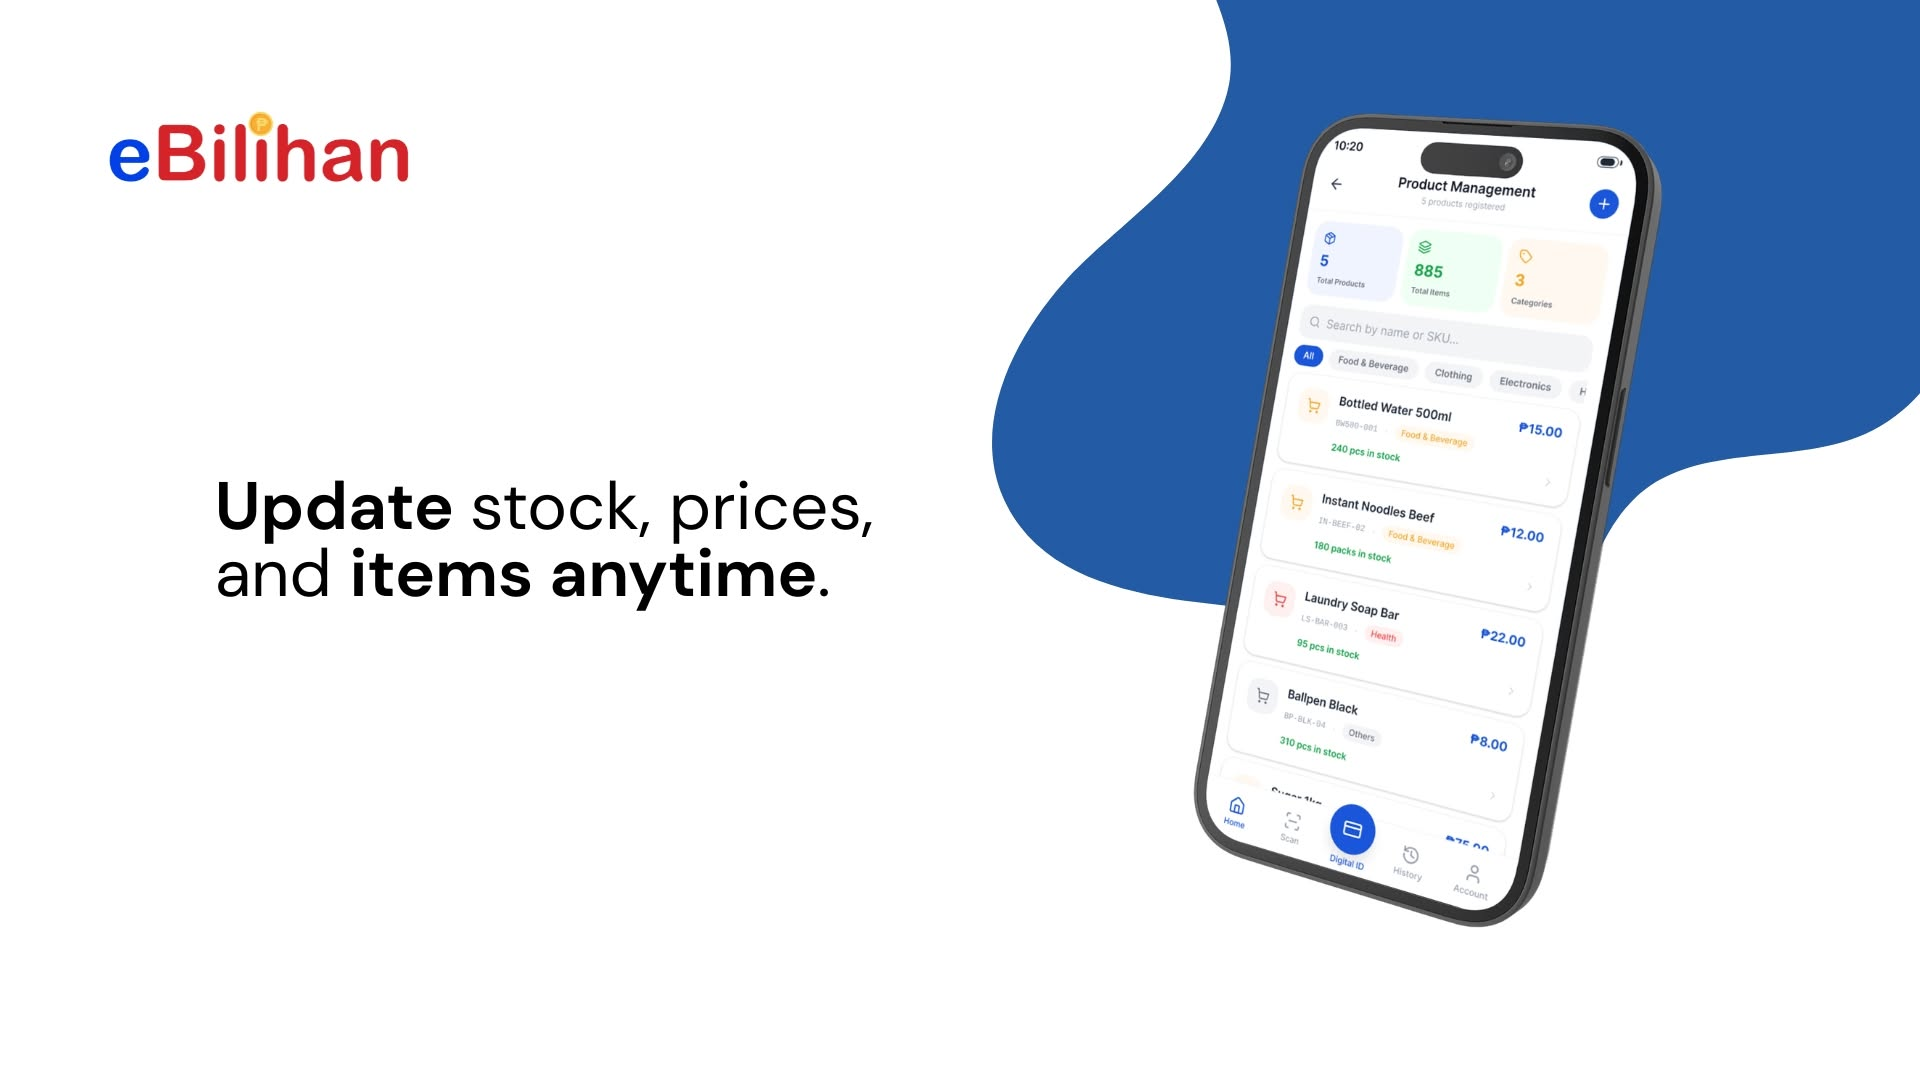
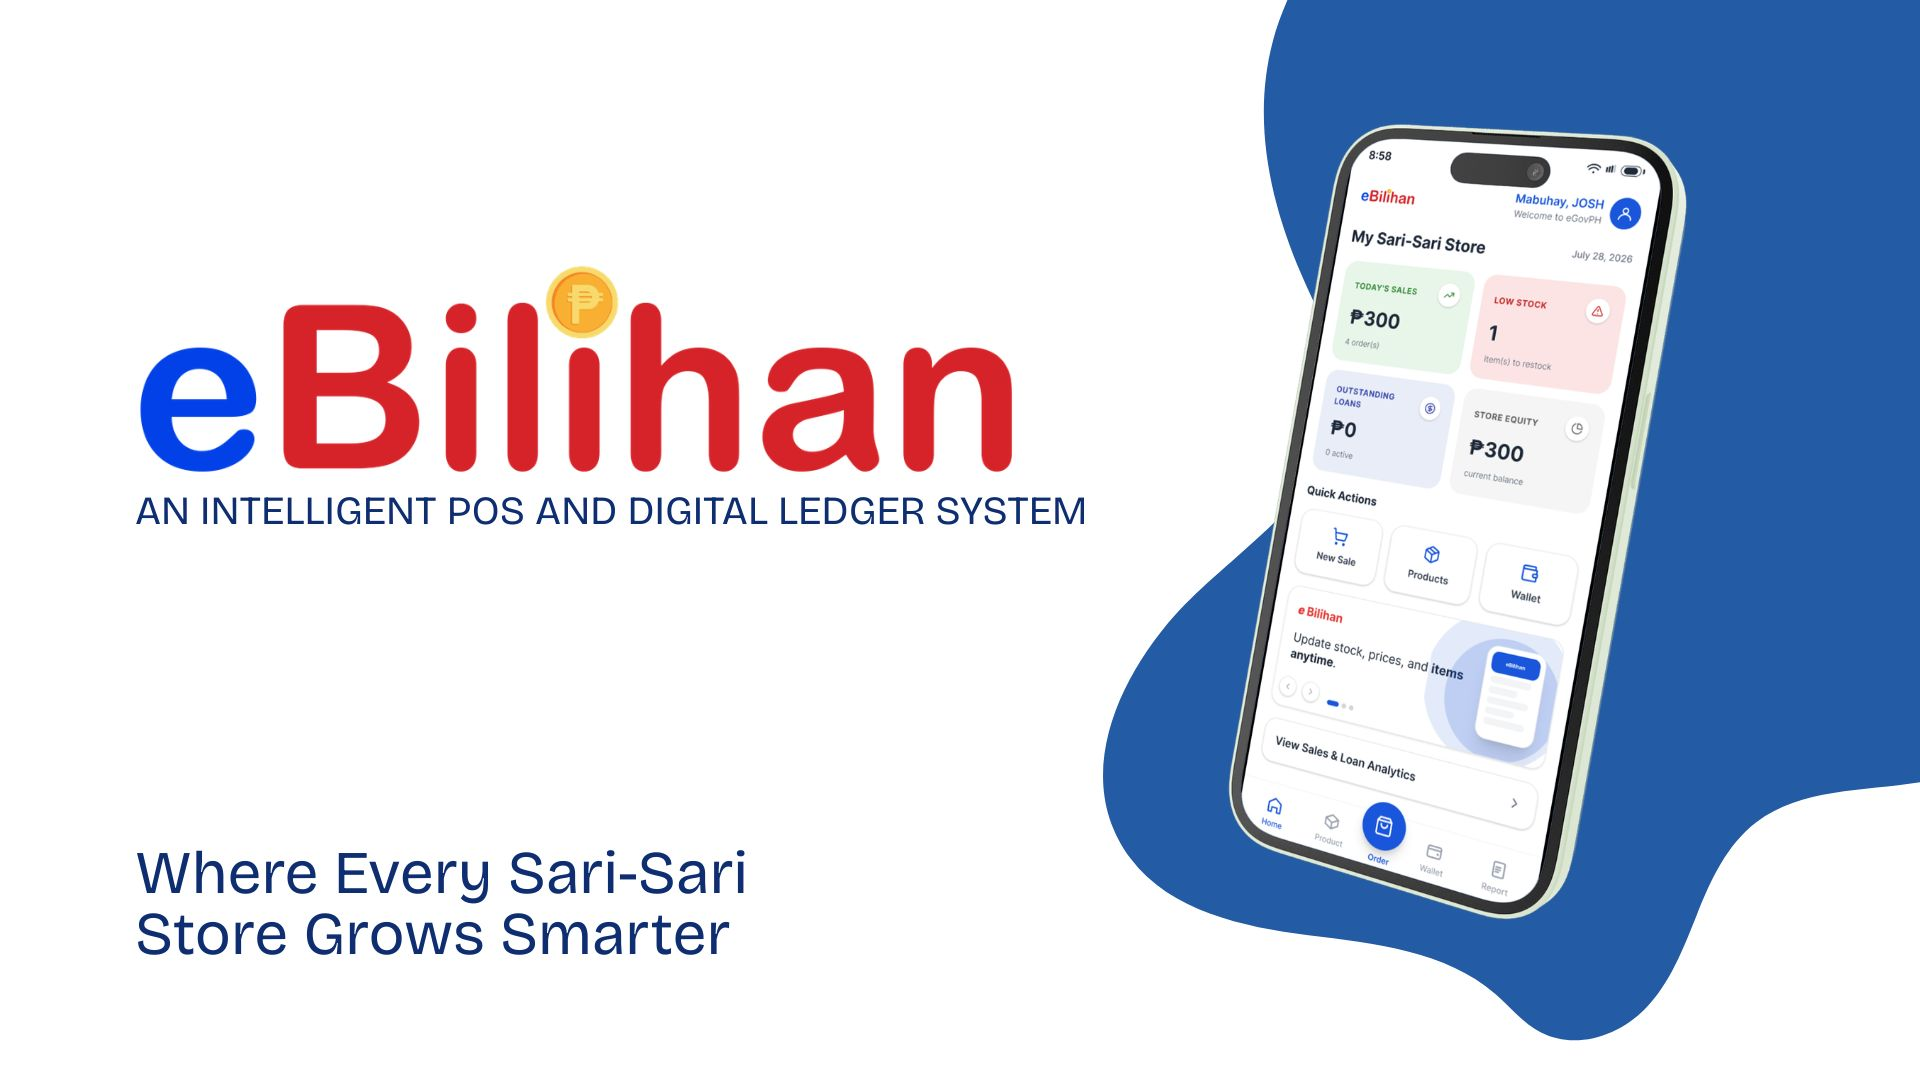
Restrict barcode/QR scan formats for reliability; make loan face capture retryable
Unrestricted multi-format scanning could misdetect noise as a spurious
match on a blurry frame, so the same physical barcode could decode
differently between two attempts. Scans now restrict to retail barcode
formats (products) or QR-only (loan borrower ID) via a `kind` param
threaded through useBarcodeScanner -> scannerStore -> WebBarcodeScannerModal.

Also fixes getProductByBarcode to URL-encode the scanned value, and
reworks LoanVerificationFlow so a face-liveness failure surfaces the
real error (e.g. a missing EVERIFY_PUBKEY) and can retry just that step
without re-scanning the QR code.

Updated banner images.

Changed region(s): [[0.0625, 0.0, 1.0, 0.9778], [0.0625, 0.7944, 0.4062, 0.8861], [0.0312, 0.0917, 0.2188, 0.1833]]

diff --git a/eBilihan-app/src/features/wallet/LoanVerificationFlow.tsx b/eBilihan-app/src/features/wallet/LoanVerificationFlow.tsx
@@ -1,5 +1,5 @@
 import { useState } from "react";
-import { QrCode, ScanFace, CheckCircle2, XCircle, Loader2 } from "lucide-react";
+import { QrCode, ScanFace, CheckCircle2, XCircle, Loader2, AlertTriangle, RotateCcw } from "lucide-react";
 import { Button } from "@/components/ui/button";
 import { Card, CardContent, CardHeader, CardTitle, CardDescription } from "@/components/ui/card";
 import { Input } from "@/components/ui/input";
@@ -12,7 +12,7 @@ import { startFaceLiveness } from "@/lib/everifyFaceLiveness";
 import { buildLoanAgreementPdf } from "@/lib/loanAgreementPdf";
 import { useAuthStore } from "@/store/authStore";
 
-type Step = "idle" | "scanning-qr" | "capturing-face" | "verifying" | "verified" | "rejected" | "creating-loan" | "done";
+type Step = "idle" | "scanning-qr" | "capturing-face" | "face-failed" | "verifying" | "verified" | "rejected" | "creating-loan" | "done";
 
 /**
  * Loan Management (Pautang) borrower verification: scan the borrower's eGovPH QR,
@@ -24,34 +24,60 @@ export function LoanVerificationFlow() {
   const owner = useAuthStore((s) => s.owner);
   const { scanOnce } = useBarcodeScanner();
   const [step, setStep] = useState<Step>("idle");
+  const [qrValue, setQrValue] = useState<string | null>(null);
   const [error, setError] = useState<string | null>(null);
   const [result, setResult] = useState<BorrowerVerificationResult | null>(null);
   const [principal, setPrincipal] = useState("");
   const [borrowerMobile, setBorrowerMobile] = useState("");
 
-  async function startVerification() {
+  async function captureFace(scannedQr: string) {
     setError(null);
-    setResult(null);
     try {
-      setStep("scanning-qr");
-      const qrValue = await scanOnce();
-      if (!qrValue) {
-        setStep("idle");
-        return;
-      }
-
       setStep("capturing-face");
       const pubKey = await getEverifyPubKey();
       const { sessionId } = await startFaceLiveness(pubKey);
 
       setStep("verifying");
-      const verification = await verifyBorrower(qrValue, sessionId);
+      const verification = await verifyBorrower(scannedQr, sessionId);
       setResult(verification);
       setStep(verification.matched ? "verified" : "rejected");
+    } catch (err) {
+      // Most likely cause: EVERIFY_PUBKEY isn't set on the backend — eVerify's own SDK
+      // throws "pubKey is required!" synchronously if it's blank. Surfacing the real
+      // message here (not a generic one) is what makes that diagnosable.
+      setError(err instanceof Error ? err.message : "Face liveness capture failed");
+      setStep("face-failed");
+    }
+  }
+
+  async function startVerification() {
+    setError(null);
+    setResult(null);
+    setQrValue(null);
+    try {
+      setStep("scanning-qr");
+      const value = await scanOnce("qr");
+      if (!value) {
+        setStep("idle");
+        return;
+      }
+      setQrValue(value);
+      await captureFace(value);
     } catch (err) {
       setError(err instanceof Error ? err.message : "Verification failed");
       setStep("idle");
     }
+  }
+
+  function retryFaceCapture() {
+    if (qrValue) captureFace(qrValue);
+  }
+
+  function startOver() {
+    setStep("idle");
+    setError(null);
+    setResult(null);
+    setQrValue(null);
   }
 
   async function handleCreateLoan() {
@@ -105,13 +131,42 @@ export function LoanVerificationFlow() {
               <Loader2 className="mr-1 h-3 w-3 animate-spin" /> Matching against PhilSys...
             </Badge>
           )}
-          {error && (
-            <Badge variant="danger" className="w-fit">
-              {error}
-            </Badge>
-          )}
         </CardContent>
       </Card>
+
+      {step === "face-failed" && (
+        <Card className="border-brand-red-light bg-brand-red-light">
+          <CardContent className="flex flex-col gap-3 pt-4">
+            <div className="flex items-start gap-2">
+              <AlertTriangle className="h-5 w-5 shrink-0 text-brand-red" />
+              <div>
+                <p className="text-sm font-bold text-brand-red">Face liveness capture failed</p>
+                <p className="mt-1 text-xs text-brand-red/80">{error}</p>
+                {error?.toLowerCase().includes("pubkey") && (
+                  <p className="mt-1 text-xs text-brand-red/80">
+                    This means <code className="font-mono">EVERIFY_PUBKEY</code> isn&apos;t set (or is blank) in the
+                    backend&apos;s environment variables — check that on Render.
+                  </p>
+                )}
+              </div>
+            </div>
+            <div className="flex gap-2">
+              <Button variant="outline" className="flex-1" onClick={startOver}>
+                <RotateCcw className="h-4 w-4" /> Start Over
+              </Button>
+              <Button className="flex-1" onClick={retryFaceCapture}>
+                <ScanFace className="h-4 w-4" /> Retry Face Capture
+              </Button>
+            </div>
+          </CardContent>
+        </Card>
+      )}
+
+      {step === "idle" && error && (
+        <Badge variant="danger" className="w-fit">
+          {error}
+        </Badge>
+      )}
 
       {step === "rejected" && (
         <Card>

diff --git a/eBilihan-app/src/components/shared/WebBarcodeScannerModal.tsx b/eBilihan-app/src/components/shared/WebBarcodeScannerModal.tsx
@@ -4,6 +4,8 @@ import { X, ScanLine } from "lucide-react";
 import { useScannerStore } from "@/store/scannerStore";
 import { Button } from "@/components/ui/button";
 
+const RETAIL_BARCODE_FORMATS = ["EAN_13", "EAN_8", "UPC_A", "UPC_E", "CODE_128", "CODE_39", "CODE_93", "ITF"] as const;
+
 /**
  * Full-screen camera barcode/QR scanner for browser tabs (ML Kit — used on native
  * builds — has no real web implementation; see useBarcodeScanner.ts). Uses ZXing
@@ -11,7 +13,11 @@ import { Button } from "@/components/ui/button";
  * since that still isn't supported on iOS Safari.
  *
  * Rendered once in AppShell.tsx; opened imperatively via useScannerStore so call
- * sites (POSView, LoanVerificationFlow) just `await scanOnce()` same as native.
+ * sites (POSView, LoanVerificationFlow) just `await scanOnce(kind)` same as native.
+ * `kind` restricts ZXing's format hints (retail barcode formats vs. QR-only) — an
+ * unrestricted multi-format scan can misdetect noise as a spurious match on a
+ * blurry/partial frame, which is why the same physical barcode could decode
+ * differently between two scan attempts.
  *
  * Requires a secure context (HTTPS or localhost) — getUserMedia is blocked on plain
  * `http://<lan-ip>`, which is why this only really works once deployed (or on
@@ -19,6 +25,7 @@ import { Button } from "@/components/ui/button";
  */
 export function WebBarcodeScannerModal() {
   const isOpen = useScannerStore((s) => s.isOpen);
+  const kind = useScannerStore((s) => s.kind);
   const close = useScannerStore((s) => s.close);
   const videoRef = useRef<HTMLVideoElement>(null);
   const controlsRef = useRef<IScannerControls | null>(null);
@@ -33,9 +40,17 @@ export function WebBarcodeScannerModal() {
     (async () => {
       try {
         const { BrowserMultiFormatReader } = await import("@zxing/browser");
+        const { BarcodeFormat, DecodeHintType } = await import("@zxing/library");
         if (cancelled || !videoRef.current) return;
 
-        const reader = new BrowserMultiFormatReader();
+        const formats = kind === "qr" ? ["QR_CODE"] : RETAIL_BARCODE_FORMATS;
+        const hints = new Map();
+        hints.set(
+          DecodeHintType.POSSIBLE_FORMATS,
+          formats.map((f) => BarcodeFormat[f as keyof typeof BarcodeFormat]),
+        );
+
+        const reader = new BrowserMultiFormatReader(hints);
         const controls = await reader.decodeFromConstraints(
           { video: { facingMode: "environment" } },
           videoRef.current,
@@ -64,7 +79,7 @@ export function WebBarcodeScannerModal() {
       controlsRef.current?.stop();
       controlsRef.current = null;
     };
-  }, [isOpen, close]);
+  }, [isOpen, kind, close]);
 
   if (!isOpen) return null;
 
@@ -88,7 +103,7 @@ export function WebBarcodeScannerModal() {
 
         <div className="absolute left-0 right-0 top-4 flex justify-center">
           <span className="flex items-center gap-1.5 rounded-full bg-black/50 px-3 py-1.5 text-xs font-medium text-white">
-            <ScanLine className="h-3.5 w-3.5" /> Point at a barcode or QR code
+            <ScanLine className="h-3.5 w-3.5" /> {kind === "qr" ? "Point at the eGovPH QR code" : "Point at the product barcode"}
           </span>
         </div>
       </div>

diff --git a/eBilihan-app/src/hooks/useBarcodeScanner.ts b/eBilihan-app/src/hooks/useBarcodeScanner.ts
@@ -1,7 +1,12 @@
 import { useCallback, useState } from "react";
 import { Capacitor } from "@capacitor/core";
-import { BarcodeScanner } from "@capacitor-mlkit/barcode-scanning";
-import { useScannerStore } from "@/store/scannerStore";
+import { BarcodeScanner, BarcodeFormat } from "@capacitor-mlkit/barcode-scanning";
+import { useScannerStore, type ScanKind } from "@/store/scannerStore";
+
+const NATIVE_FORMATS: Record<ScanKind, BarcodeFormat[]> = {
+  barcode: [BarcodeFormat.Ean13, BarcodeFormat.Ean8, BarcodeFormat.UpcA, BarcodeFormat.UpcE, BarcodeFormat.Code128, BarcodeFormat.Code39, BarcodeFormat.Code93, BarcodeFormat.Itf],
+  qr: [BarcodeFormat.QrCode],
+};
 
 /**
  * Native builds: @capacitor-mlkit/barcode-scanning (the maintained successor to the
@@ -9,34 +14,44 @@ import { useScannerStore } from "@/store/scannerStore";
  * CLAUDE.md > Deviations from the brief). ML Kit is native-only, so in a browser tab
  * this instead opens WebBarcodeScannerModal.tsx (getUserMedia + ZXing), rendered once
  * in AppShell.tsx — callers don't need to know or care which path ran.
+ *
+ * `kind` restricts which code families are matched — "barcode" (retail EAN/UPC/CODE
+ * formats) for products, "qr" for the eGovPH QR in the loan flow. Leaving this
+ * unrestricted (matching every format ZXing/ML Kit know) measurably increases
+ * misreads on a blurry/partial frame, which is why a scanned code could come back
+ * different between two attempts of the same physical barcode.
  */
 export function useBarcodeScanner() {
   const [isScanning, setIsScanning] = useState(false);
   const openWebScanner = useScannerStore((s) => s.open);
 
-  const scanOnce = useCallback(async (): Promise<string | null> => {
-    if (!Capacitor.isNativePlatform()) {
+  const scanOnce = useCallback(
+    async (kind: ScanKind = "barcode"): Promise<string | null> => {
+      if (!Capacitor.isNativePlatform()) {
+        setIsScanning(true);
+        try {
+          const value = await openWebScanner(kind);
+          return value?.trim() || null;
+        } finally {
+          setIsScanning(false);
+        }
+      }
+
+      const { camera } = await BarcodeScanner.requestPermissions();
+      if (camera !== "granted" && camera !== "limited") {
+        throw new Error("Camera permission was denied");
+      }
+
       setIsScanning(true);
       try {
-        return await openWebScanner();
+        const { barcodes } = await BarcodeScanner.scan({ formats: NATIVE_FORMATS[kind] });
+        return barcodes[0]?.rawValue?.trim() || null;
       } finally {
         setIsScanning(false);
       }
-    }
-
-    const { camera } = await BarcodeScanner.requestPermissions();
-    if (camera !== "granted" && camera !== "limited") {
-      throw new Error("Camera permission was denied");
-    }
-
-    setIsScanning(true);
-    try {
-      const { barcodes } = await BarcodeScanner.scan();
-      return barcodes[0]?.rawValue ?? null;
-    } finally {
-      setIsScanning(false);
-    }
-  }, [openWebScanner]);
+    },
+    [openWebScanner],
+  );
 
   return { scanOnce, isScanning };
 }

diff --git a/eBilihan-app/src/store/scannerStore.ts b/eBilihan-app/src/store/scannerStore.ts
@@ -1,20 +1,27 @@
 import { create } from "zustand";
 
+/** Which family of codes to expect — restricting this materially improves scan
+ * reliability (an unrestricted multi-format scan can misdetect noise as a random
+ * 2D/1D code on a blurry frame). "barcode" = retail 1D formats, "qr" = QR only. */
+export type ScanKind = "barcode" | "qr";
+
 type ScannerState = {
   isOpen: boolean;
+  kind: ScanKind;
   resolve: ((value: string | null) => void) | null;
   /** Opens the full-screen web camera scanner (see WebBarcodeScannerModal.tsx) and resolves once a code is found or the user cancels. */
-  open: () => Promise<string | null>;
+  open: (kind: ScanKind) => Promise<string | null>;
   /** Called by the modal itself on success/cancel — not meant to be called from feature code. */
   close: (value: string | null) => void;
 };
 
 export const useScannerStore = create<ScannerState>((set, get) => ({
   isOpen: false,
+  kind: "barcode",
   resolve: null,
-  open: () =>
+  open: (kind) =>
     new Promise<string | null>((resolve) => {
-      set({ isOpen: true, resolve });
+      set({ isOpen: true, kind, resolve });
     }),
   close: (value) => {
     get().resolve?.(value);

diff --git a/eBilihan-app/src/api/products.ts b/eBilihan-app/src/api/products.ts
@@ -21,6 +21,6 @@ export async function deleteProduct(id: string) {
 }
 
 export async function getProductByBarcode(barcode: string) {
-  const { data } = await api.get<{ data: Product }>(`/products/by-barcode/${barcode}`);
+  const { data } = await api.get<{ data: Product }>(`/products/by-barcode/${encodeURIComponent(barcode)}`);
   return data.data;
 }

diff --git a/eBilihan-app/src/features/pos/POSView.tsx b/eBilihan-app/src/features/pos/POSView.tsx
@@ -23,7 +23,7 @@ export function POSView() {
   async function handleScan() {
     setScanError(null);
     try {
-      const barcode = await scanOnce();
+      const barcode = await scanOnce("barcode");
       if (!barcode) return;
       const product = await getProductByBarcode(barcode);
       addProduct(product);

diff --git a/eBilihan-app/src/features/products/ProductFormDialog.tsx b/eBilihan-app/src/features/products/ProductFormDialog.tsx
@@ -68,7 +68,7 @@ export function ProductFormDialog({ product, open, onOpenChange }: ProductFormDi
   });
 
   async function handleScanBarcode() {
-    const barcode = await scanOnce();
+    const barcode = await scanOnce("barcode");
     if (barcode) setForm((f) => ({ ...f, barcode }));
   }
 
